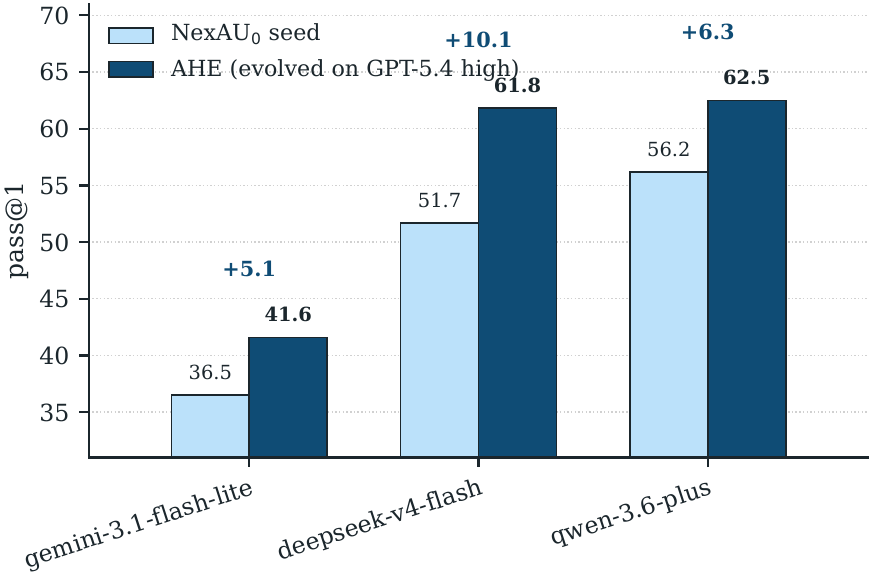
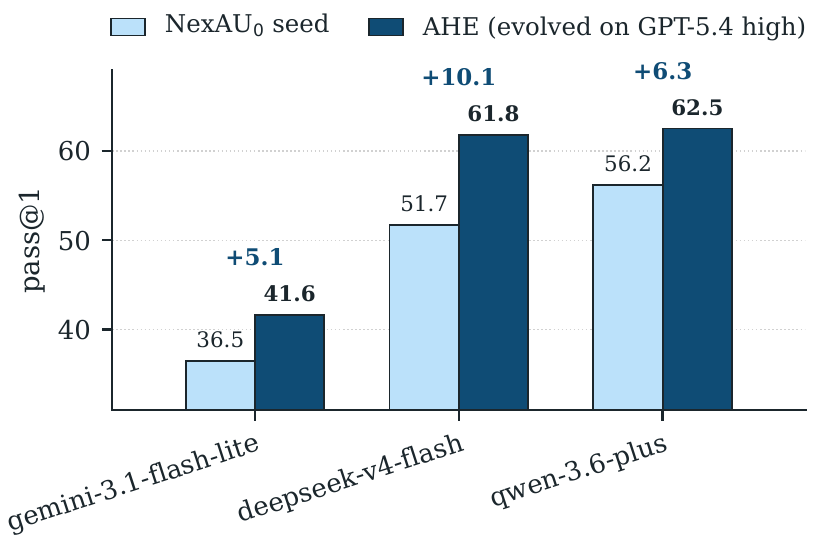
docs: redraw transfer figure — legend on top, smaller footprint
Move the legend out of the plot area to a top-centered two-column row so
the +10.1 / 61.8 annotations on deepseek's bars are no longer clipped, and
shrink the figsize (4.6×3.1 → 4.0×2.7) plus README width (70% → 60%).

diff --git a/README.md b/README.md
@@ -40,7 +40,7 @@ AHE rests on three observability layers:
 Across ten `evaluate → analyze → improve` iterations, **AHE (Agentic Harness Engineering)** lifts Terminal-Bench 2 pass@1 from **69.7% to 77.0%**, surpasses the hand-written Codex (71.9%) and the self-evolving ACE and TF-GRPO baselines, and produces a frozen harness that transfers without re-evolution to SWE-bench-verified and to four alternate base models, indicating that the evolved components encode general engineering experience rather than benchmark-specific tuning.
 
 <p align="center">
-  <img src="assets/figures/transfer_model.png" alt="Cross-Model Transfer" width="70%">
+  <img src="assets/figures/transfer_model.png" alt="Cross-Model Transfer" width="60%">
 </p>
 
 ---
